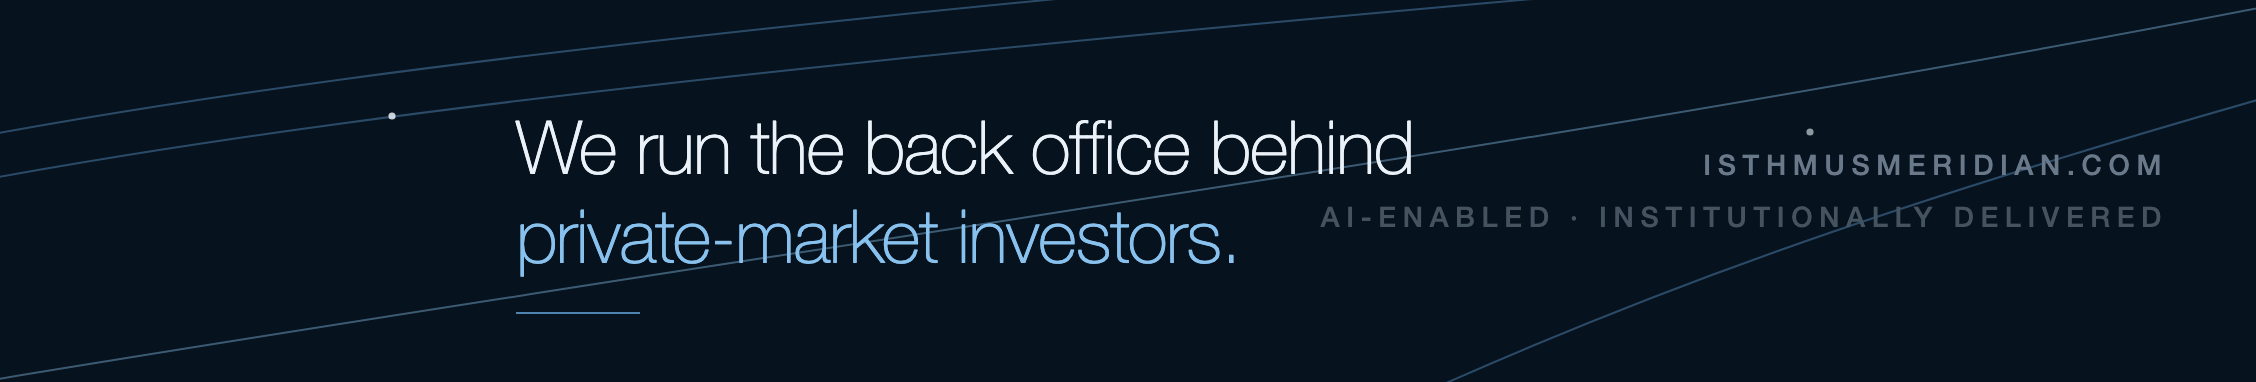
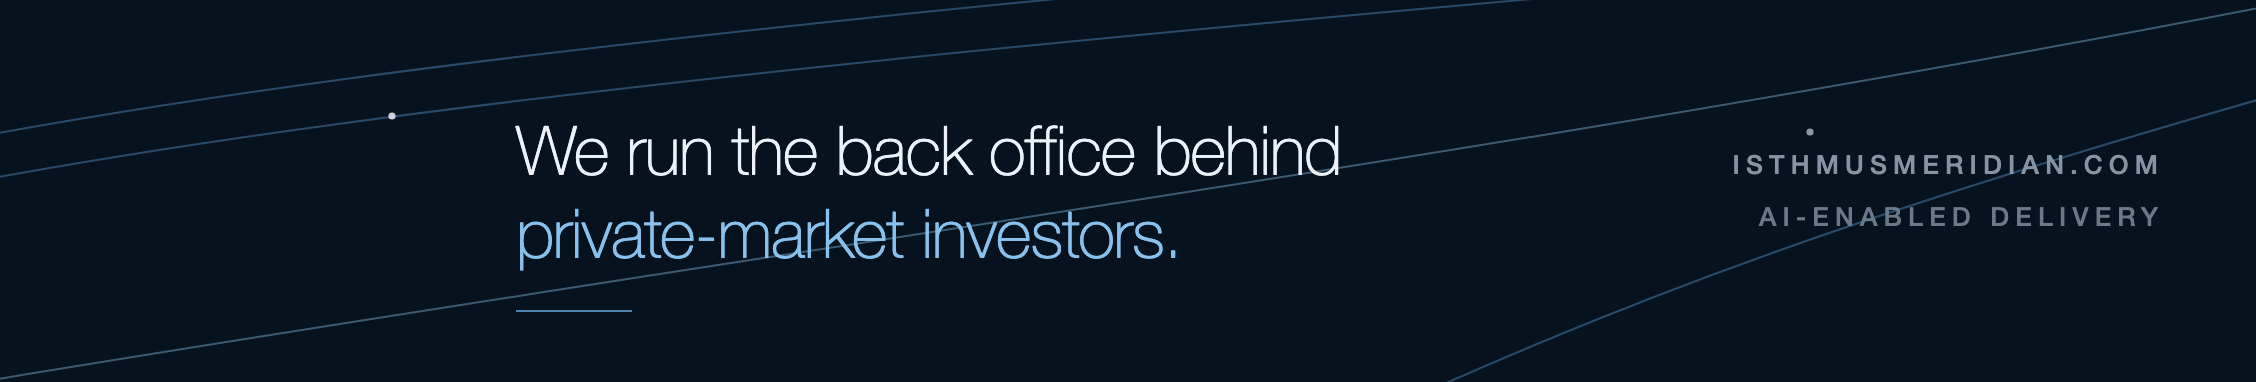
brand: fix the LinkedIn cover alignment and gutter
The two text blocks were positioned independently and had effectively no
gutter — the right-hand meta started at x=671 while the statement ran to x=707,
so they overlapped horizontally and only escaped collision by sitting at
different heights.

Now one flex row with a shared centre axis and a 104px minimum gap, which
resolves to a 195px gutter at this copy length. Measured, not eyeballed:
statement and meta centres both land on 95.5/96 against the cover's 95.5.

- the rule moves into the flow so it tracks the statement's left edge, with a
  negative bottom margin cancelling its own height so it does not drag the
  block's centre below the meta's
- second meta line goes --isth-faint -> --isth-muted; faint is a hairline-label
  value and goes muddy once LinkedIn recompresses the PNG
- statement 37px -> 34px to buy the gutter without shortening the line

Left padding stays at 258px for the logo overlay.

diff --git a/brand/linkedin/_source-cover.html b/brand/linkedin/_source-cover.html
@@ -6,33 +6,41 @@
     background: #06121d;
     font-family: "Archivo", "Archivo Fallback", "Helvetica Neue", Arial, sans-serif;
     box-sizing: border-box;
+    /* LinkedIn parks the company logo over the lower-left of the cover, so the
+       first ~250px stay clear of anything that has to be read. */
+    padding: 0 46px 0 258px;
+    /* One row, one centre axis — both blocks are optically centred against the
+       same line instead of being positioned independently. `gap` is a floor, so
+       the two never crowd each other no matter how the copy changes. */
+    display: flex; align-items: center; justify-content: space-between;
+    gap: 104px;
   }
   .field { position: absolute; inset: 0; }
-  /* LinkedIn parks the company logo over the lower-left of the cover, so the
-     first ~250px stay clear of anything that must be read. */
-  .copy {
-    position: absolute; left: 258px; top: 50%; transform: translateY(-50%);
-  }
+
+  .copy { position: relative; flex: 0 1 auto; }
   .line {
-    font-size: 37px; line-height: 1.2; font-weight: 300; color: #eaf1f8;
+    font-size: 34px; line-height: 1.22; font-weight: 300; color: #eaf1f8;
     letter-spacing: -.012em; margin: 0; white-space: nowrap;
   }
   .line em { font-style: normal; color: #88c1ed; }
+  /* In the flow, so it sits on the copy's own left edge and tracks it. The
+     negative bottom margin cancels its own height, so it does not drag the
+     block's centre down — the two text masses stay on one optical axis. */
   .rule {
-    position: absolute; left: 258px; bottom: 34px; width: 62px; height: 1px;
-    background: #4f83b0;
+    width: 58px; height: 1px; background: #4f83b0;
+    margin-top: 18px; margin-bottom: -19px;
   }
-  .right {
-    position: absolute; right: 44px; top: 50%; transform: translateY(-50%);
-    text-align: right;
-  }
+
+  .meta { position: relative; text-align: right; flex: 0 0 auto; }
   .dom {
-    font-size: 14px; letter-spacing: .24em; text-transform: uppercase;
-    color: #6a798a; font-weight: 500; margin: 0;
+    font-size: 13px; letter-spacing: .24em; text-transform: uppercase;
+    color: #8494a4; font-weight: 500; margin: 0; white-space: nowrap;
   }
   .cat {
-    font-size: 14px; letter-spacing: .24em; text-transform: uppercase;
-    color: #45525f; font-weight: 500; margin: 9px 0 0;
+    font-size: 13px; letter-spacing: .24em; text-transform: uppercase;
+    /* --isth-muted, not --isth-faint: faint is a hairline-label value and goes
+       muddy once LinkedIn recompresses the PNG. */
+    color: #6a798a; font-weight: 500; margin: 10px 0 0; white-space: nowrap;
   }
 </style>
 
@@ -53,11 +61,11 @@
   <div class="copy">
     <p class="line">We run the back office behind</p>
     <p class="line"><em>private-market investors.</em></p>
+    <div class="rule"></div>
   </div>
-  <div class="rule"></div>
 
-  <div class="right">
+  <div class="meta">
     <p class="dom">isthmusmeridian.com</p>
-    <p class="cat">AI-enabled &middot; Institutionally delivered</p>
+    <p class="cat">AI-enabled delivery</p>
   </div>
 </div>
